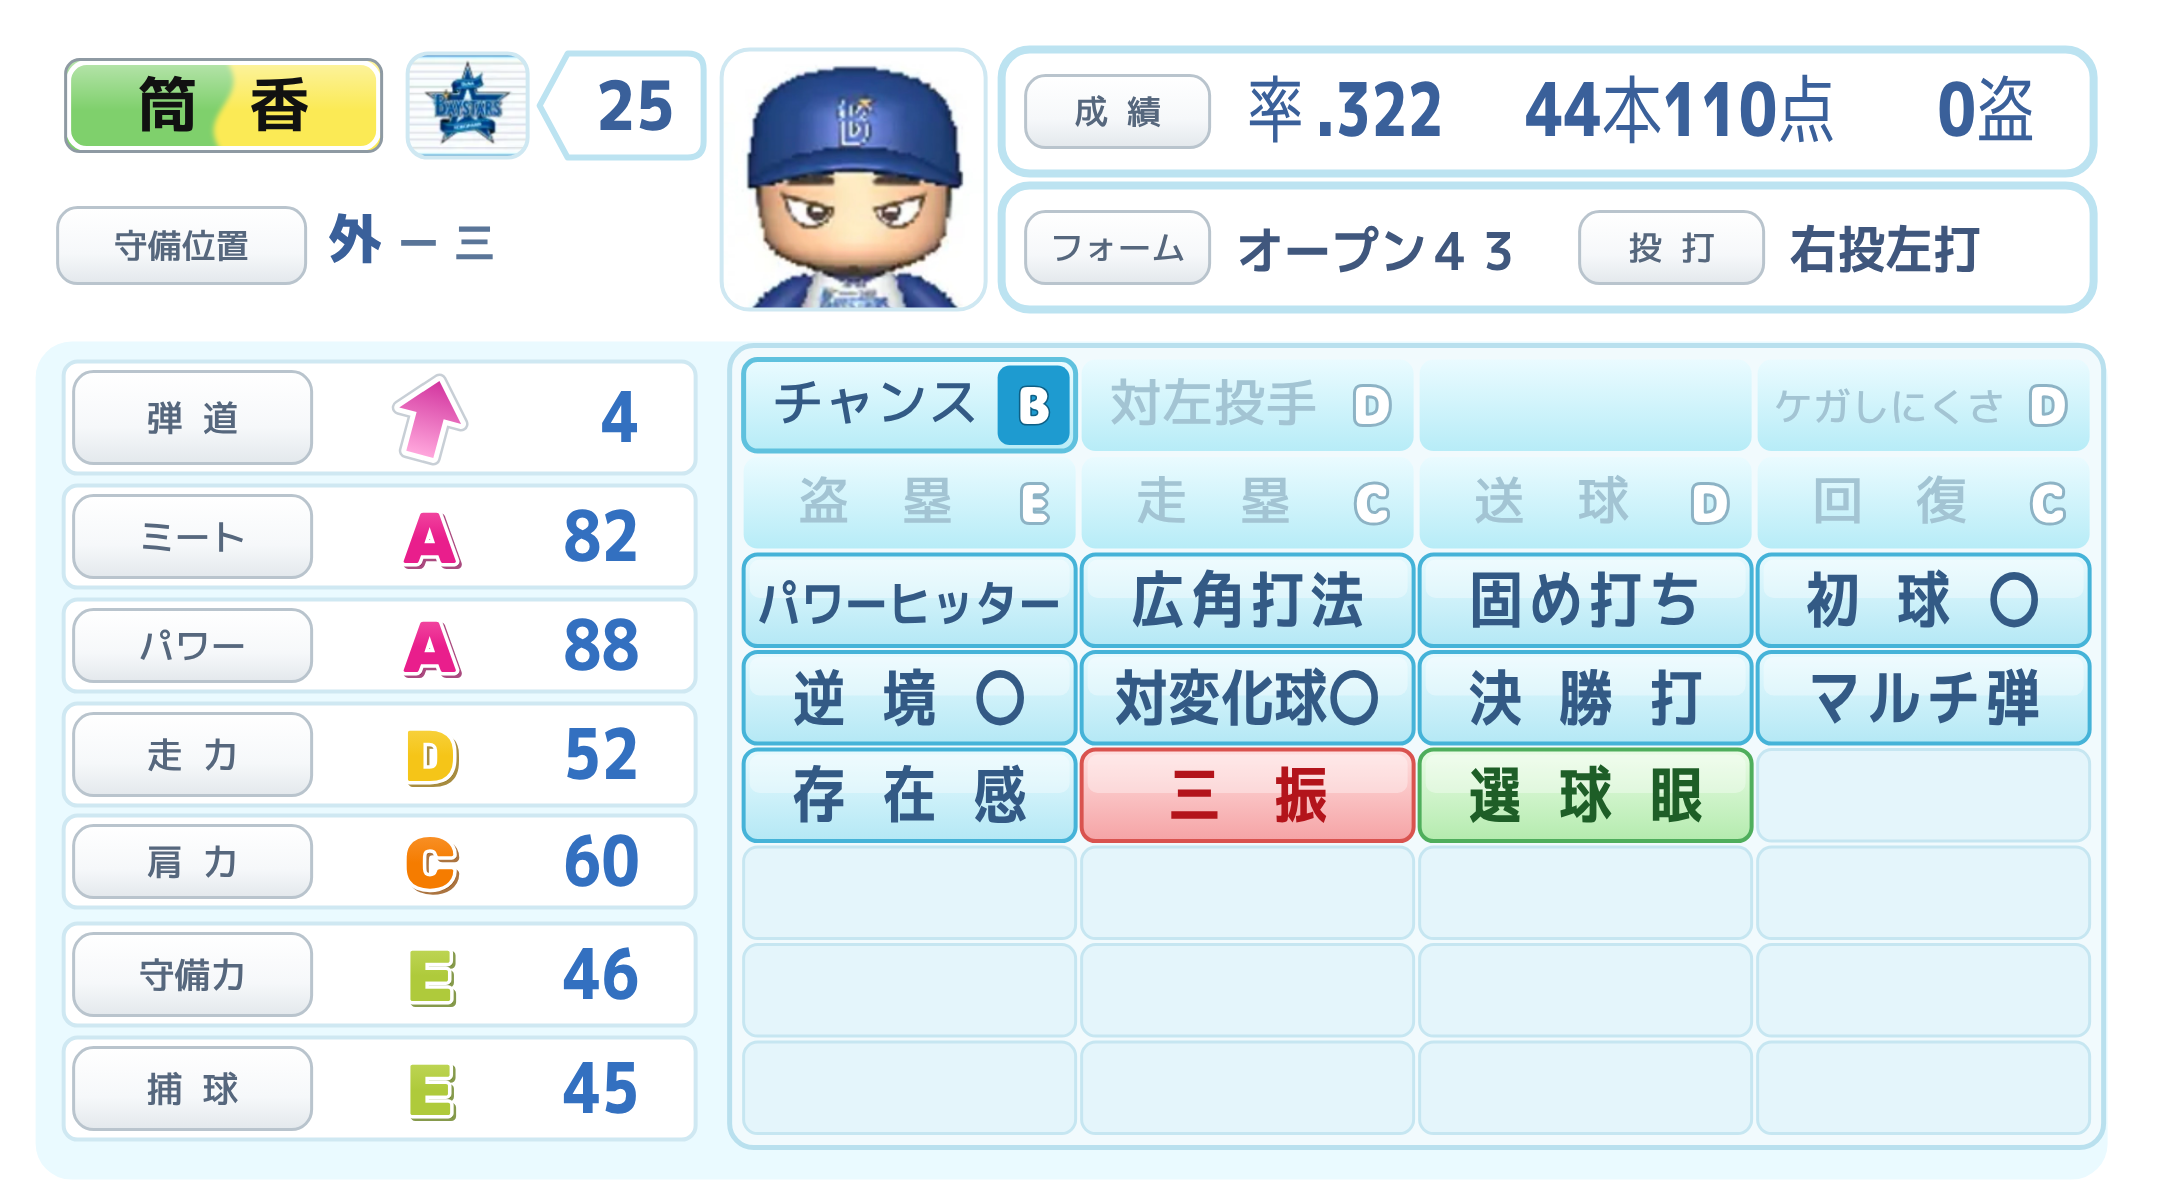
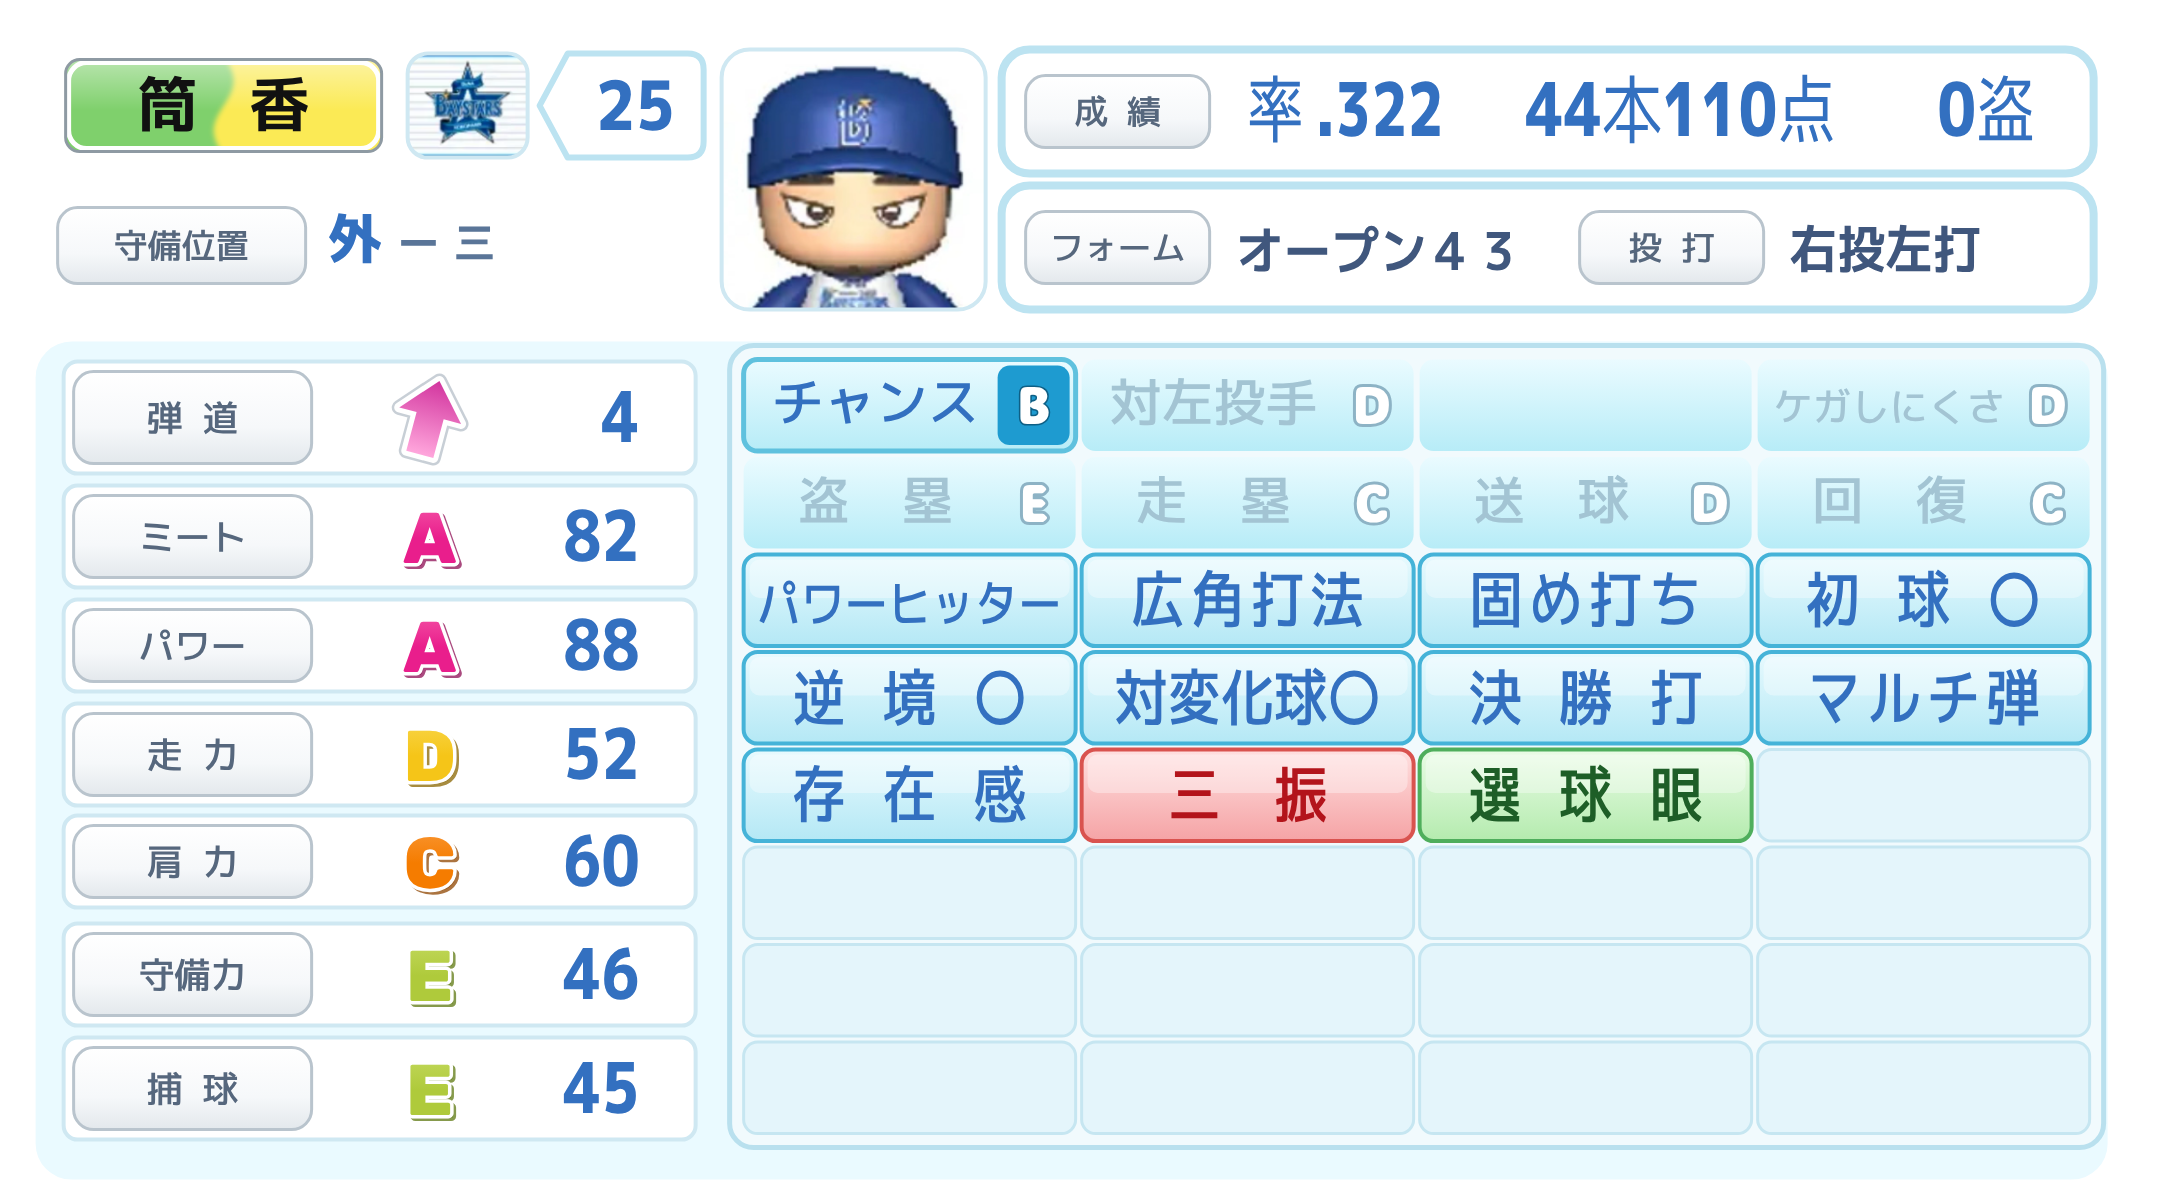
能力画像ジェネレーター（野手）：特殊能力と成績欄を能力値の数字と同じ紺に、特殊能力の文字を細く
- 特殊能力（上段のランク付き項目を含む）と成績欄・守備位置・背番号の文字を、
  能力値の数字と同じ薄い紺に
- 特殊能力の文字を太字から中太に
- 使用例の画像を作り直す

Claude-Session: https://claude.ai/code/session_01SKh1jhAp32CEmbZCaaEmgk

diff --git a/nouryoku/index.html b/nouryoku/index.html
@@ -337,7 +337,7 @@ footer.disclaimer{ margin-top:30px; font-size:0.82rem; color:var(--ink-mute); bo
 </p>
 
 <p>
-<img src="/nouryoku/example-tsutsugo.png?v=13" alt="パワプロ風 能力画像ジェネレーター（野手）で作成した能力画像の例" width="2164" height="1201" loading="lazy" style="max-width:100%; height:auto; border:1px solid #c2cad6; border-radius:12px;">
+<img src="/nouryoku/example-tsutsugo.png?v=14" alt="パワプロ風 能力画像ジェネレーター（野手）で作成した能力画像の例" width="2164" height="1201" loading="lazy" style="max-width:100%; height:auto; border:1px solid #c2cad6; border-radius:12px;">
 </p>
 
 <h2>よくある質問</h2>
@@ -766,7 +766,7 @@ var BADGE_CONDENSE = 0.86;   /* 実機の特殊能力の字は縦長。字の幅
 function badgeLabel(cx, cy, maxW, text, color) {
     /* 横だけ縮めるので、枠の幅は縮める前の字の幅に直して渡す */
     return '<g transform="translate(' + cx + ' ' + (cy + 1) + ') scale(' + BADGE_CONDENSE + ' 1)">' +
-           '<text data-justify="' + (maxW / BADGE_CONDENSE) + '" x="0" y="0" text-anchor="middle" font-size="31" font-weight="700" fill="' + color + '" font-family="&quot;M PLUS 1p&quot;,&quot;Hiragino Kaku Gothic ProN&quot;,sans-serif">' + esc(text) + '</text></g>';
+           '<text data-justify="' + (maxW / BADGE_CONDENSE) + '" x="0" y="0" text-anchor="middle" font-size="31" font-weight="500" fill="' + color + '" font-family="&quot;M PLUS 1p&quot;,&quot;Hiragino Kaku Gothic ProN&quot;,sans-serif">' + esc(text) + '</text></g>';
 }
 
 /* =====================================================================
@@ -882,7 +882,7 @@ function buildCatBadges() {
    赤特は純粋な赤色の単色。赤青特（☆がプラスの赤特）だけ左赤・右青のツートンにする。 */
 var CAT_STYLE = {
     kintoku: { bg: ["#FFF3D0", "#F5DFA8"], border: "#E0B03C", text: "#7A4520" },
-    aoto:    { bg: ["#E8FAFE", "#B4E8F5"], border: "#45B3D8", text: "#335A85" },
+    aoto:    { bg: ["#E8FAFE", "#B4E8F5"], border: "#45B3D8", text: "#3370C0" },
     midori:  { bg: ["#EAFCE6", "#B4EBAE"], border: "#4FAE5C", text: "#1E5E27" },
     aka:     { bg: ["#FFE0E0", "#F5A3A5"], border: "#D9534F", text: "#B3141B" }
 };
@@ -1020,7 +1020,7 @@ function renderCard() {
                はっきり分かるようにする */
             var isHigh = b.rank === "A" || b.rank === "B";
             var isPaleText = b.rank === "C" || b.rank === "D" || b.rank === "E";
-            var textColor = tier === "bad" ? "#7A2020" : (isPaleText ? "#A3C4D3" : "#335A85");
+            var textColor = tier === "bad" ? "#7A2020" : (isPaleText ? "#A3C4D3" : "#3370C0");
             /* 実機：B以上は青い四角に白い字、C〜Eは四角無しで白抜きの字（薄い灰青の縁）だけ、F・Gは赤 */
             var tagFill = tier === "bad" ? BADGE_RANK_TAG[b.rank] : "#1E9BD0";
             var tagStroke = tier === "bad" ? "#7A1F1A" : (isPaleText ? "#8DB3C5" : "#0E5F85");
@@ -1087,7 +1087,7 @@ function renderCard() {
 
     var bio1 = L.bio1Vals.map(function (b) {
         var val = b.keys.map(function (k) { return document.getElementById("p-" + k).value.trim(); }).join("");
-        return '<text data-squeeze="0.8" data-max="' + b.w + '" x="' + b.x + '" y="' + (b.y + 32) + '"' + (b.anchor ? ' text-anchor="' + b.anchor + '"' : '') + ' font-size="37" font-weight="700" fill="#3A609A" font-family="&quot;M PLUS 1p&quot;,&quot;Hiragino Kaku Gothic ProN&quot;,sans-serif">' + unitTspans(b.pre, val) + '</text>';
+        return '<text data-squeeze="0.8" data-max="' + b.w + '" x="' + b.x + '" y="' + (b.y + 32) + '"' + (b.anchor ? ' text-anchor="' + b.anchor + '"' : '') + ' font-size="37" font-weight="700" fill="#3370C0" font-family="&quot;M PLUS 1p&quot;,&quot;Hiragino Kaku Gothic ProN&quot;,sans-serif">' + unitTspans(b.pre, val) + '</text>';
     }).join("");
 
     var svg = '' +
@@ -1112,7 +1112,7 @@ function renderCard() {
 
         /* 背番号 */
         numTab(L.numBox.x, L.numBox.y, L.numBox.w, L.numBox.h) +
-        (number ? '<text data-squeeze="0.9" data-max="' + (L.numBox.w - 14) + '" x="' + (L.numBox.x + 7 + L.numBox.w / 2) + '" y="' + (L.numBox.y + L.numBox.h / 2 + 12) + '" text-anchor="middle" font-size="34" font-weight="800" fill="#3A609A" font-family="&quot;M PLUS 1p&quot;,&quot;Hiragino Kaku Gothic ProN&quot;,sans-serif">' + esc(number) + '</text>' : '') +
+        (number ? '<text data-squeeze="0.9" data-max="' + (L.numBox.w - 14) + '" x="' + (L.numBox.x + 7 + L.numBox.w / 2) + '" y="' + (L.numBox.y + L.numBox.h / 2 + 12) + '" text-anchor="middle" font-size="34" font-weight="800" fill="#3370C0" font-family="&quot;M PLUS 1p&quot;,&quot;Hiragino Kaku Gothic ProN&quot;,sans-serif">' + esc(number) + '</text>' : '') +
 
         /* 顔写真枠（アップロードした画像があればそれを表示、無ければプレースホルダー） */
         (playerPhotoImg
@@ -1123,7 +1123,7 @@ function renderCard() {
 
         /* 守備位置 */
         labelPill(L.posLabel.x, L.posLabel.y, L.posLabel.w, L.posLabel.h, labelVal("label-pos", "守備位置"), 17) +
-        '<text data-fit="' + (L.posValue.w - 10) + '" x="' + L.posValue.x + '" y="' + (L.posValue.y + L.posValue.h / 2 + 9) + '" font-size="27" font-weight="800" fill="#3A609A" font-family="&quot;M PLUS 1p&quot;,&quot;Hiragino Kaku Gothic ProN&quot;,sans-serif">' + esc(pos) +
+        '<text data-fit="' + (L.posValue.w - 10) + '" x="' + L.posValue.x + '" y="' + (L.posValue.y + L.posValue.h / 2 + 9) + '" font-size="27" font-weight="800" fill="#3370C0" font-family="&quot;M PLUS 1p&quot;,&quot;Hiragino Kaku Gothic ProN&quot;,sans-serif">' + esc(pos) +
             (subClean ? '<tspan dx="8" font-size="21" font-weight="700" fill="#5A7598">ー</tspan><tspan dx="7" font-size="21" font-weight="700" fill="#5A7598">' + esc(subClean) + '</tspan>' : '') + '</text>' +
 
         /* 成績・フォーム・投打（2段のパネル） */
